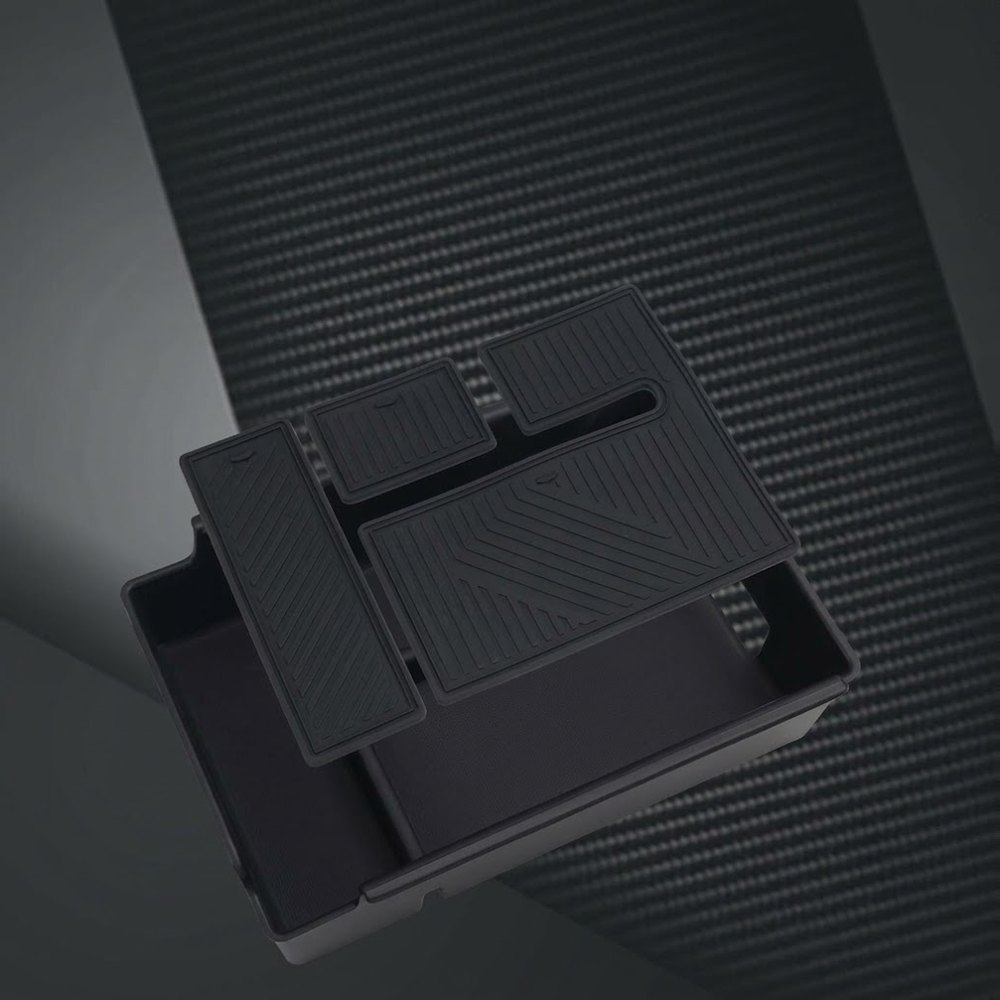
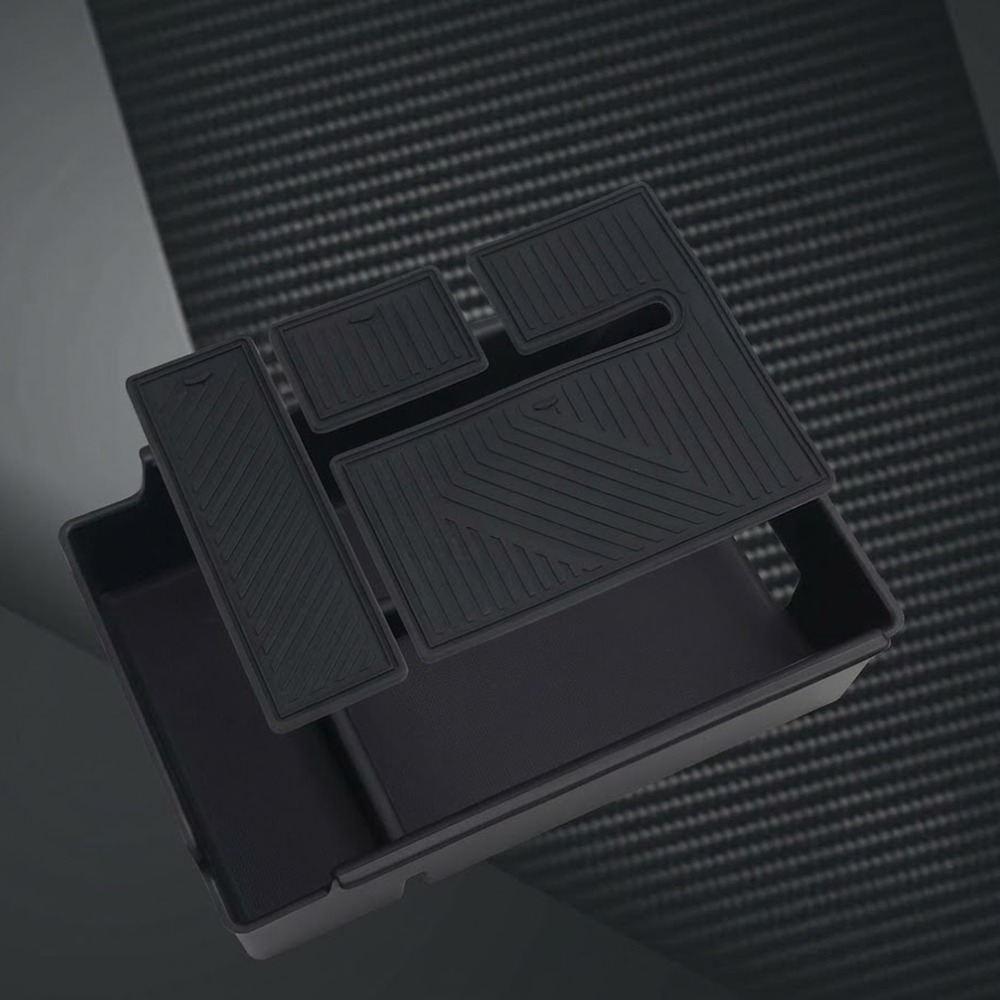
센터 콘솔 수납함(7번): 대표 사진 위쪽 여백을 줄여 제품을 가운데로

diff --git a/shop/config.js b/shop/config.js
@@ -8,4 +8,4 @@ window.SHEET_URL = 'https://docs.google.com/spreadsheets/d/19crq_-szVqdJRlVK12RK
 window.KAKAO_CHANNEL_URL = '';
 
 // 상품 사진 버전 (사진을 교체하면 숫자를 올려 주세요)
-window.ASSET_V = '10052500';
+window.ASSET_V = '10052600';
